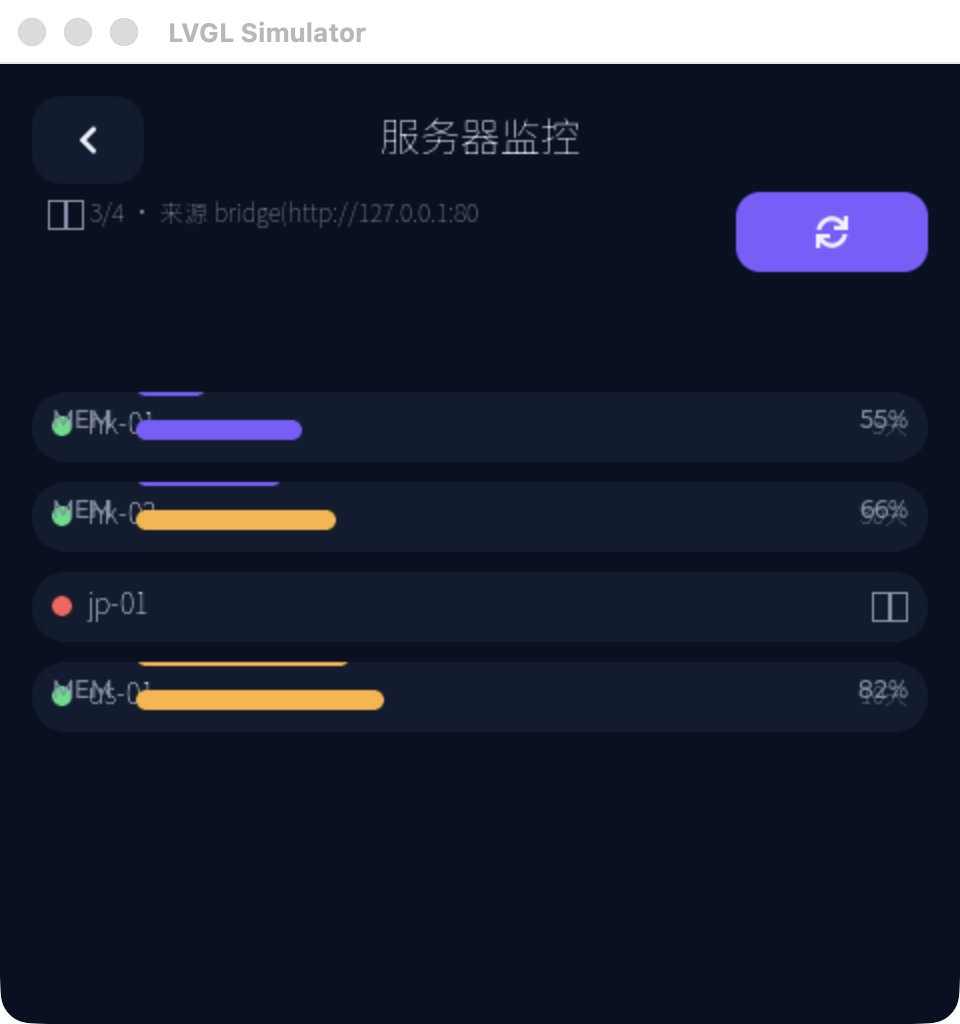
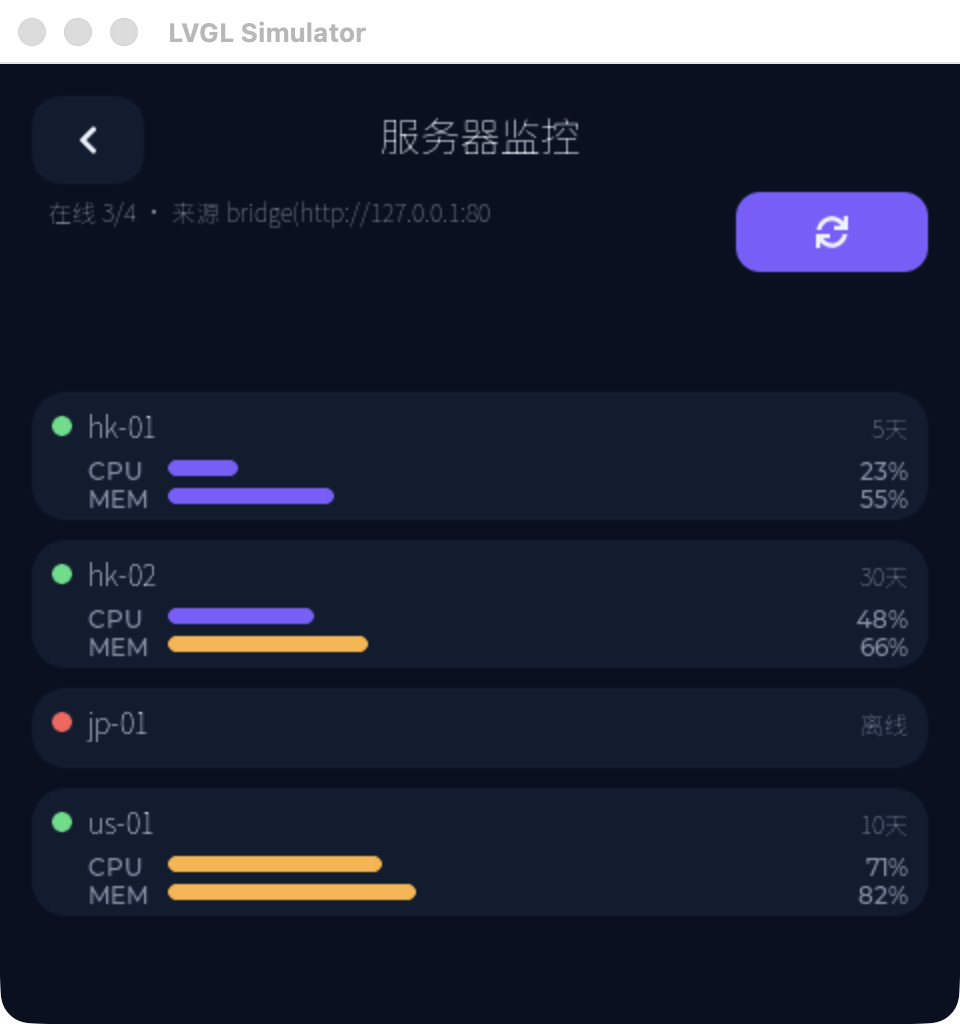
sim: 监控页卡片布局修复（固定高度 + 行坐标重排）
LV_SIZE_CONTENT 对 BOTTOM 对齐子项计算不足导致条形溢出到相邻卡片；
改固定高度（在线 64/离线 40）+ TOP 对齐行坐标（名称 0/CPU 22/MEM 36）。
截图更新。

diff --git a/simulator/lvgl-pc/src/ui/ui_monitor.c b/simulator/lvgl-pc/src/ui/ui_monitor.c
@@ -75,7 +75,9 @@ void ui_monitor_build(lv_obj_t *scr, int app_id)
     for (int i = 0; i < s->server_count && i < DS_SERVER_MAX; i++) {
         const gadget_server_t *srv = &s->servers[i];
         lv_obj_t *card = lv_obj_create(list);
-        lv_obj_set_size(card, LV_PCT(100), LV_SIZE_CONTENT);
+        /* 固定高度：LV_SIZE_CONTENT 对 BOTTOM 对齐子项计算不足，
+         * 条形会溢出到相邻卡片（目视验收抓出） */
+        lv_obj_set_size(card, LV_PCT(100), srv->online ? 64 : 40);
         ui_style_card(card);
         lv_obj_set_style_radius(card, 16, 0);
         lv_obj_set_style_pad_all(card, 10, 0);
@@ -91,36 +93,36 @@ void ui_monitor_build(lv_obj_t *scr, int app_id)
         lv_obj_align(dot, LV_ALIGN_TOP_LEFT, 0, 2);
 
         lv_obj_t *name = ui_label(card, srv->name, &lv_font_cn_14, UI_TEXT);
-        lv_obj_align(name, LV_ALIGN_TOP_LEFT, 18, -2);
+        lv_obj_align(name, LV_ALIGN_TOP_LEFT, 18, 0);
 
         snprintf(buf, sizeof(buf), srv->online ? "%d天" : "离线", srv->uptime_h / 24);
         lv_obj_t *up = ui_label(card, buf, &lv_font_cn_12, UI_TEXT_DIM);
-        lv_obj_align(up, LV_ALIGN_TOP_RIGHT, 0, 0);
+        lv_obj_align(up, LV_ALIGN_TOP_RIGHT, 0, 2);
 
         if (srv->online) {
-            /* 行 2/3：CPU/内存迷你条 */
+            /* 行 2/3：CPU/内存迷你条（卡片 64px：名称行 0~18，条 20/34） */
             const struct { const char *label; int pct; int y; } rows[] = {
-                { "CPU", srv->cpu_pct, -26 },
-                { "MEM", srv->mem_pct, -4 },
+                { "CPU", srv->cpu_pct, 22 },
+                { "MEM", srv->mem_pct, 36 },
             };
             for (size_t r = 0; r < sizeof(rows) / sizeof(rows[0]); r++) {
                 lv_obj_t *lbl = ui_label(card, rows[r].label, &lv_font_montserrat_12, UI_TEXT_DIM);
-                lv_obj_align(lbl, LV_ALIGN_BOTTOM_LEFT, 0, rows[r].y);
+                lv_obj_align(lbl, LV_ALIGN_TOP_LEFT, 18, rows[r].y);
 
                 lv_obj_t *bar = lv_bar_create(card);
-                lv_obj_set_size(bar, 150, 10);
-                lv_obj_align(bar, LV_ALIGN_BOTTOM_LEFT, 42, rows[r].y + 3);
+                lv_obj_set_size(bar, 150, 8);
+                lv_obj_align(bar, LV_ALIGN_TOP_LEFT, 58, rows[r].y + 2);
                 lv_bar_set_range(bar, 0, 100);
                 lv_bar_set_value(bar, rows[r].pct, LV_ANIM_OFF);
                 lv_obj_set_style_bg_color(bar, UI_CARD_HI, 0);
                 lv_obj_set_style_bg_color(bar, ui_pct_color(rows[r].pct), LV_PART_INDICATOR);
-                lv_obj_set_style_radius(bar, 5, 0);
-                lv_obj_set_style_radius(bar, 5, LV_PART_INDICATOR);
+                lv_obj_set_style_radius(bar, 4, 0);
+                lv_obj_set_style_radius(bar, 4, LV_PART_INDICATOR);
 
                 char pb[12];
                 snprintf(pb, sizeof(pb), "%d%%", rows[r].pct);
                 lv_obj_t *pct_lbl = ui_label(card, pb, &lv_font_montserrat_12, UI_TEXT_DIM);
-                lv_obj_align(pct_lbl, LV_ALIGN_BOTTOM_RIGHT, 0, rows[r].y);
+                lv_obj_align(pct_lbl, LV_ALIGN_TOP_RIGHT, 0, rows[r].y);
             }
         }
     }
